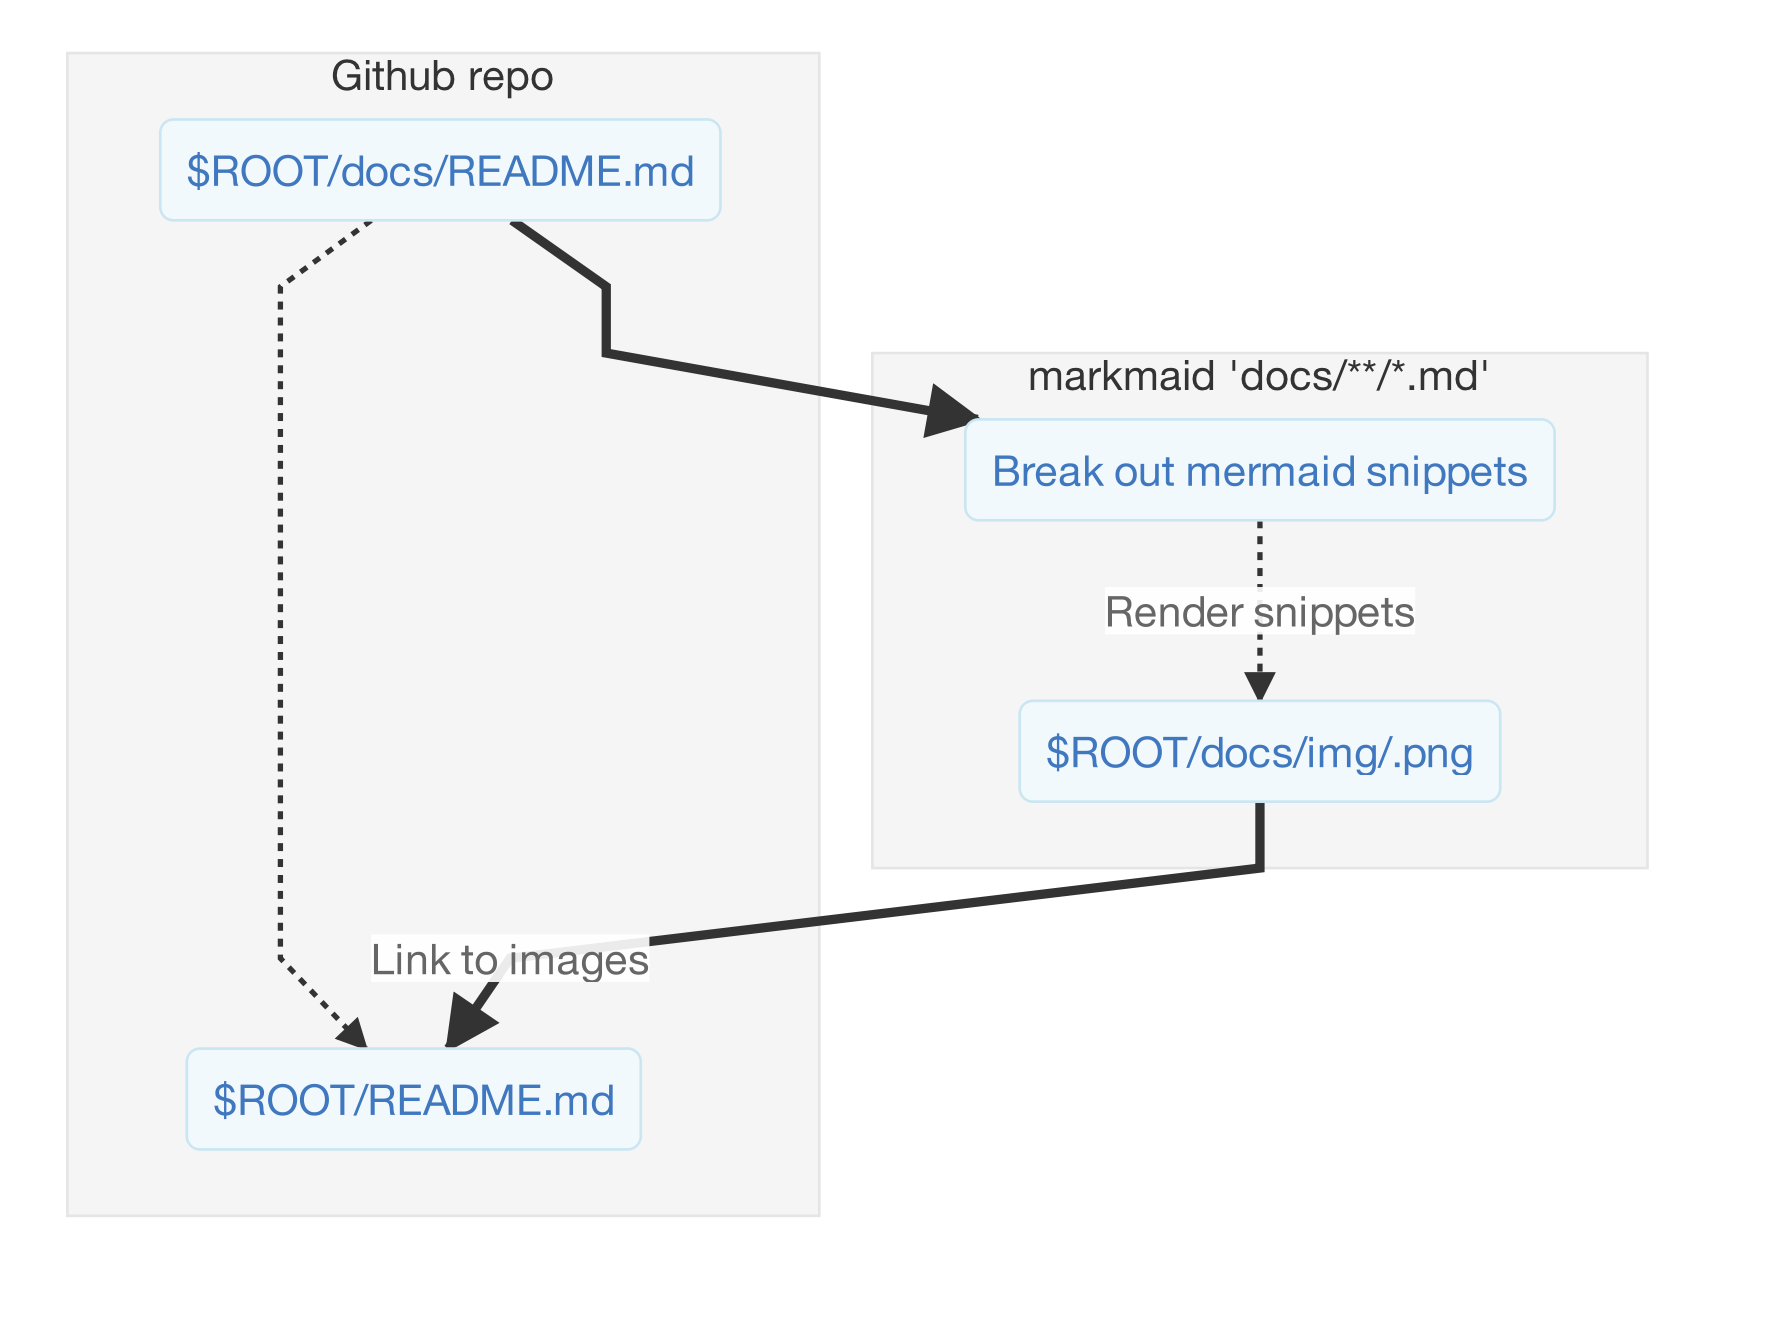
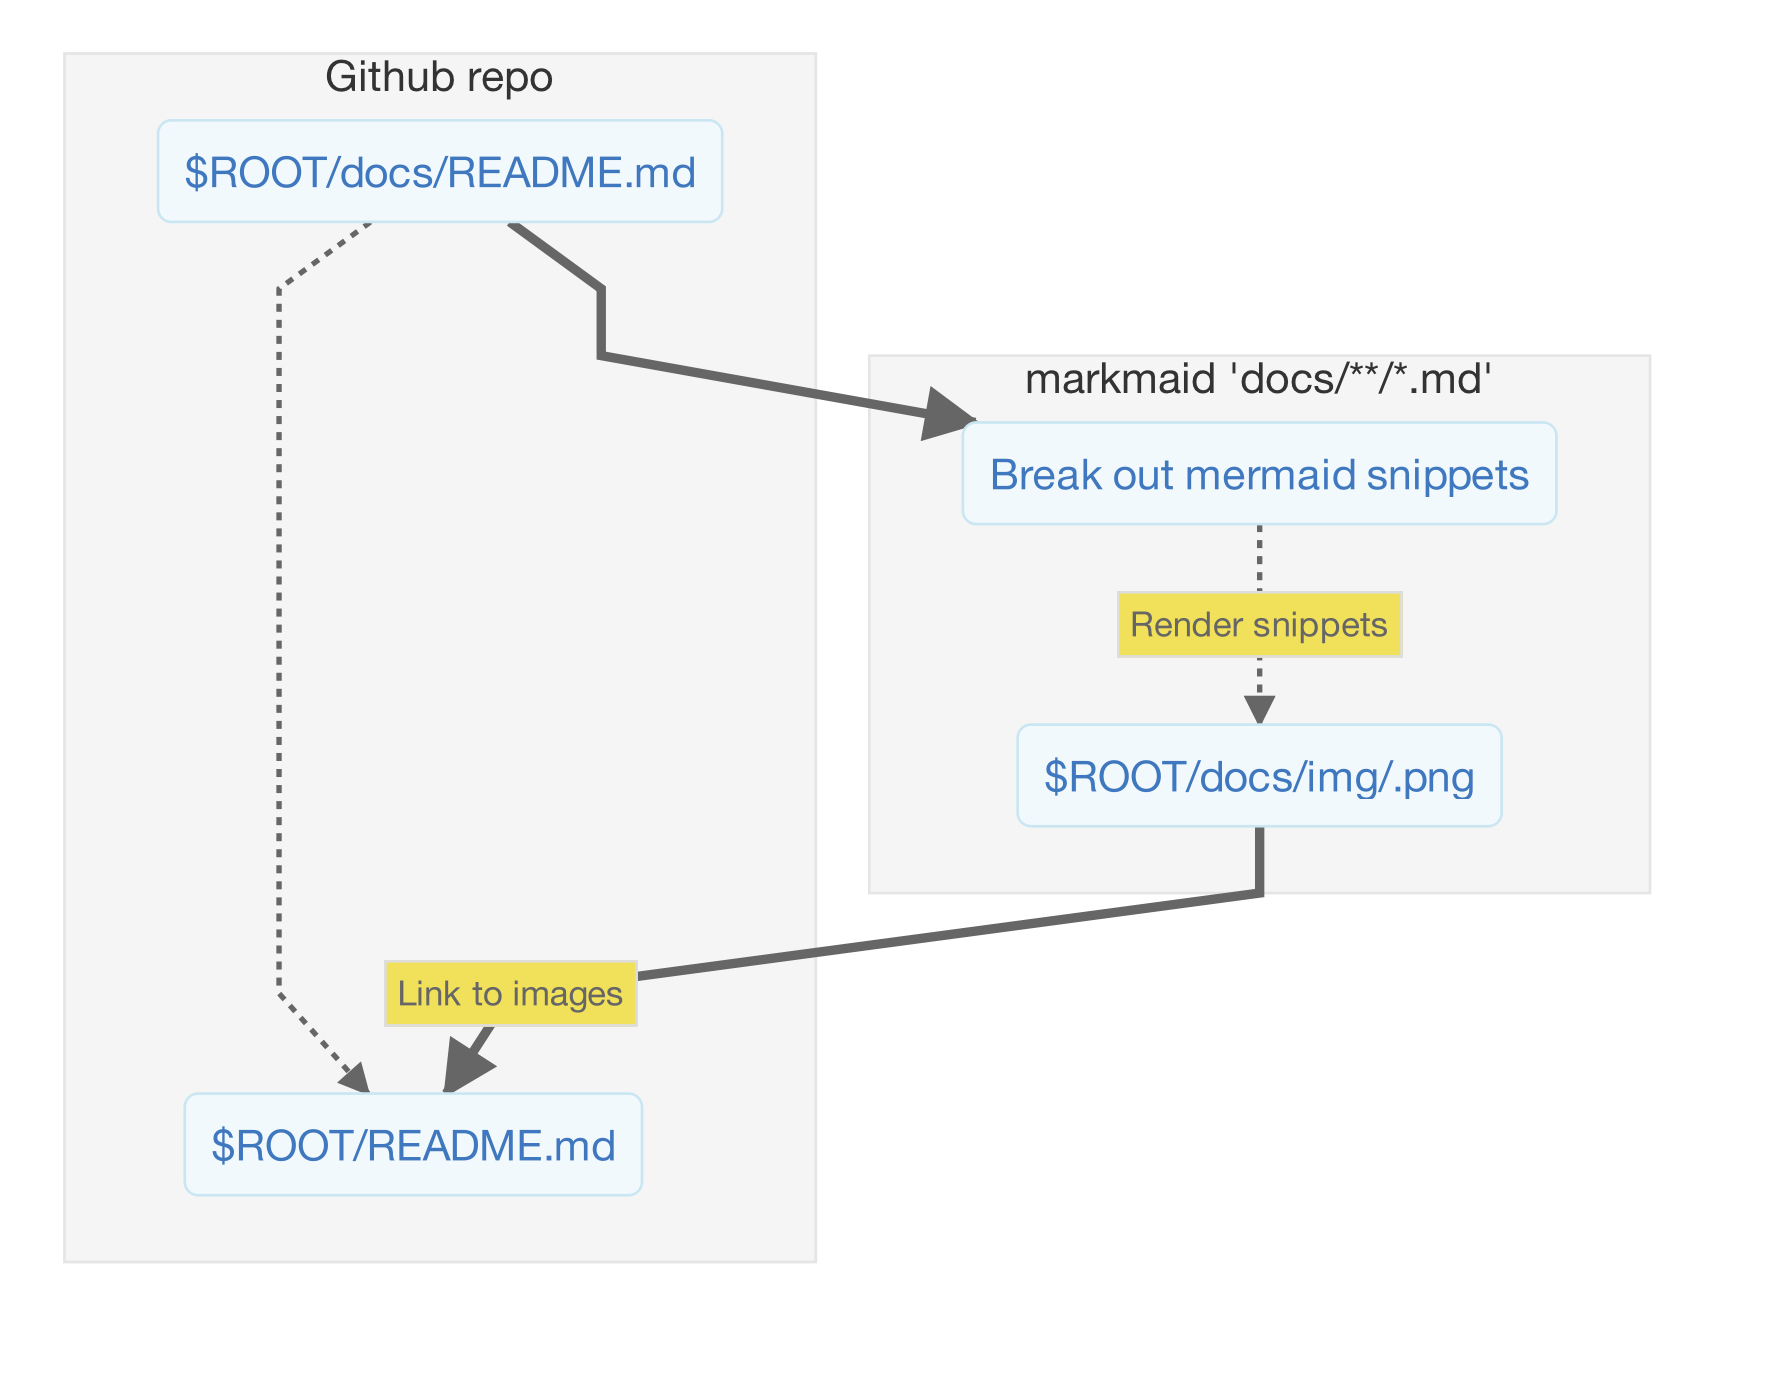
Tweak styling

diff --git a/src/default-style.css b/src/default-style.css
@@ -21,9 +21,16 @@ body {
   overflow: visible;
 }
 
-span.edgeLabel {
+.edgeLabel {
+  overflow: visible;
+}
+span.edgeLabel:not(:empty) {
   color: #666;
-  background: rgba(255, 255, 255, .9);
+  background: #f1e05a;
+  border: .1rem solid #ddd;
+  padding: .3rem;
+  font-size: .8rem;
+  line-height: 1.6rem;
 }
 
 .node rect + .label,
@@ -44,7 +51,10 @@ span.edgeLabel {
   stroke-width: 1px;
 }
 .edgePath .path {
-  stroke: #333;
+  stroke: #666 !important;
+}
+.edgePath marker path {
+  fill: #666 !important;
 }
 .cluster rect {
   fill: #f5f5f5 !important;
@@ -107,8 +117,8 @@ text.actor {
   stroke: #CCCCFF;
 }
 .note {
-  stroke: #aaaa33;
-  fill: #fff5ad;
+  stroke: #ddd;
+  fill: #f1e05a;
 }
 .noteText {
   fill: black;
